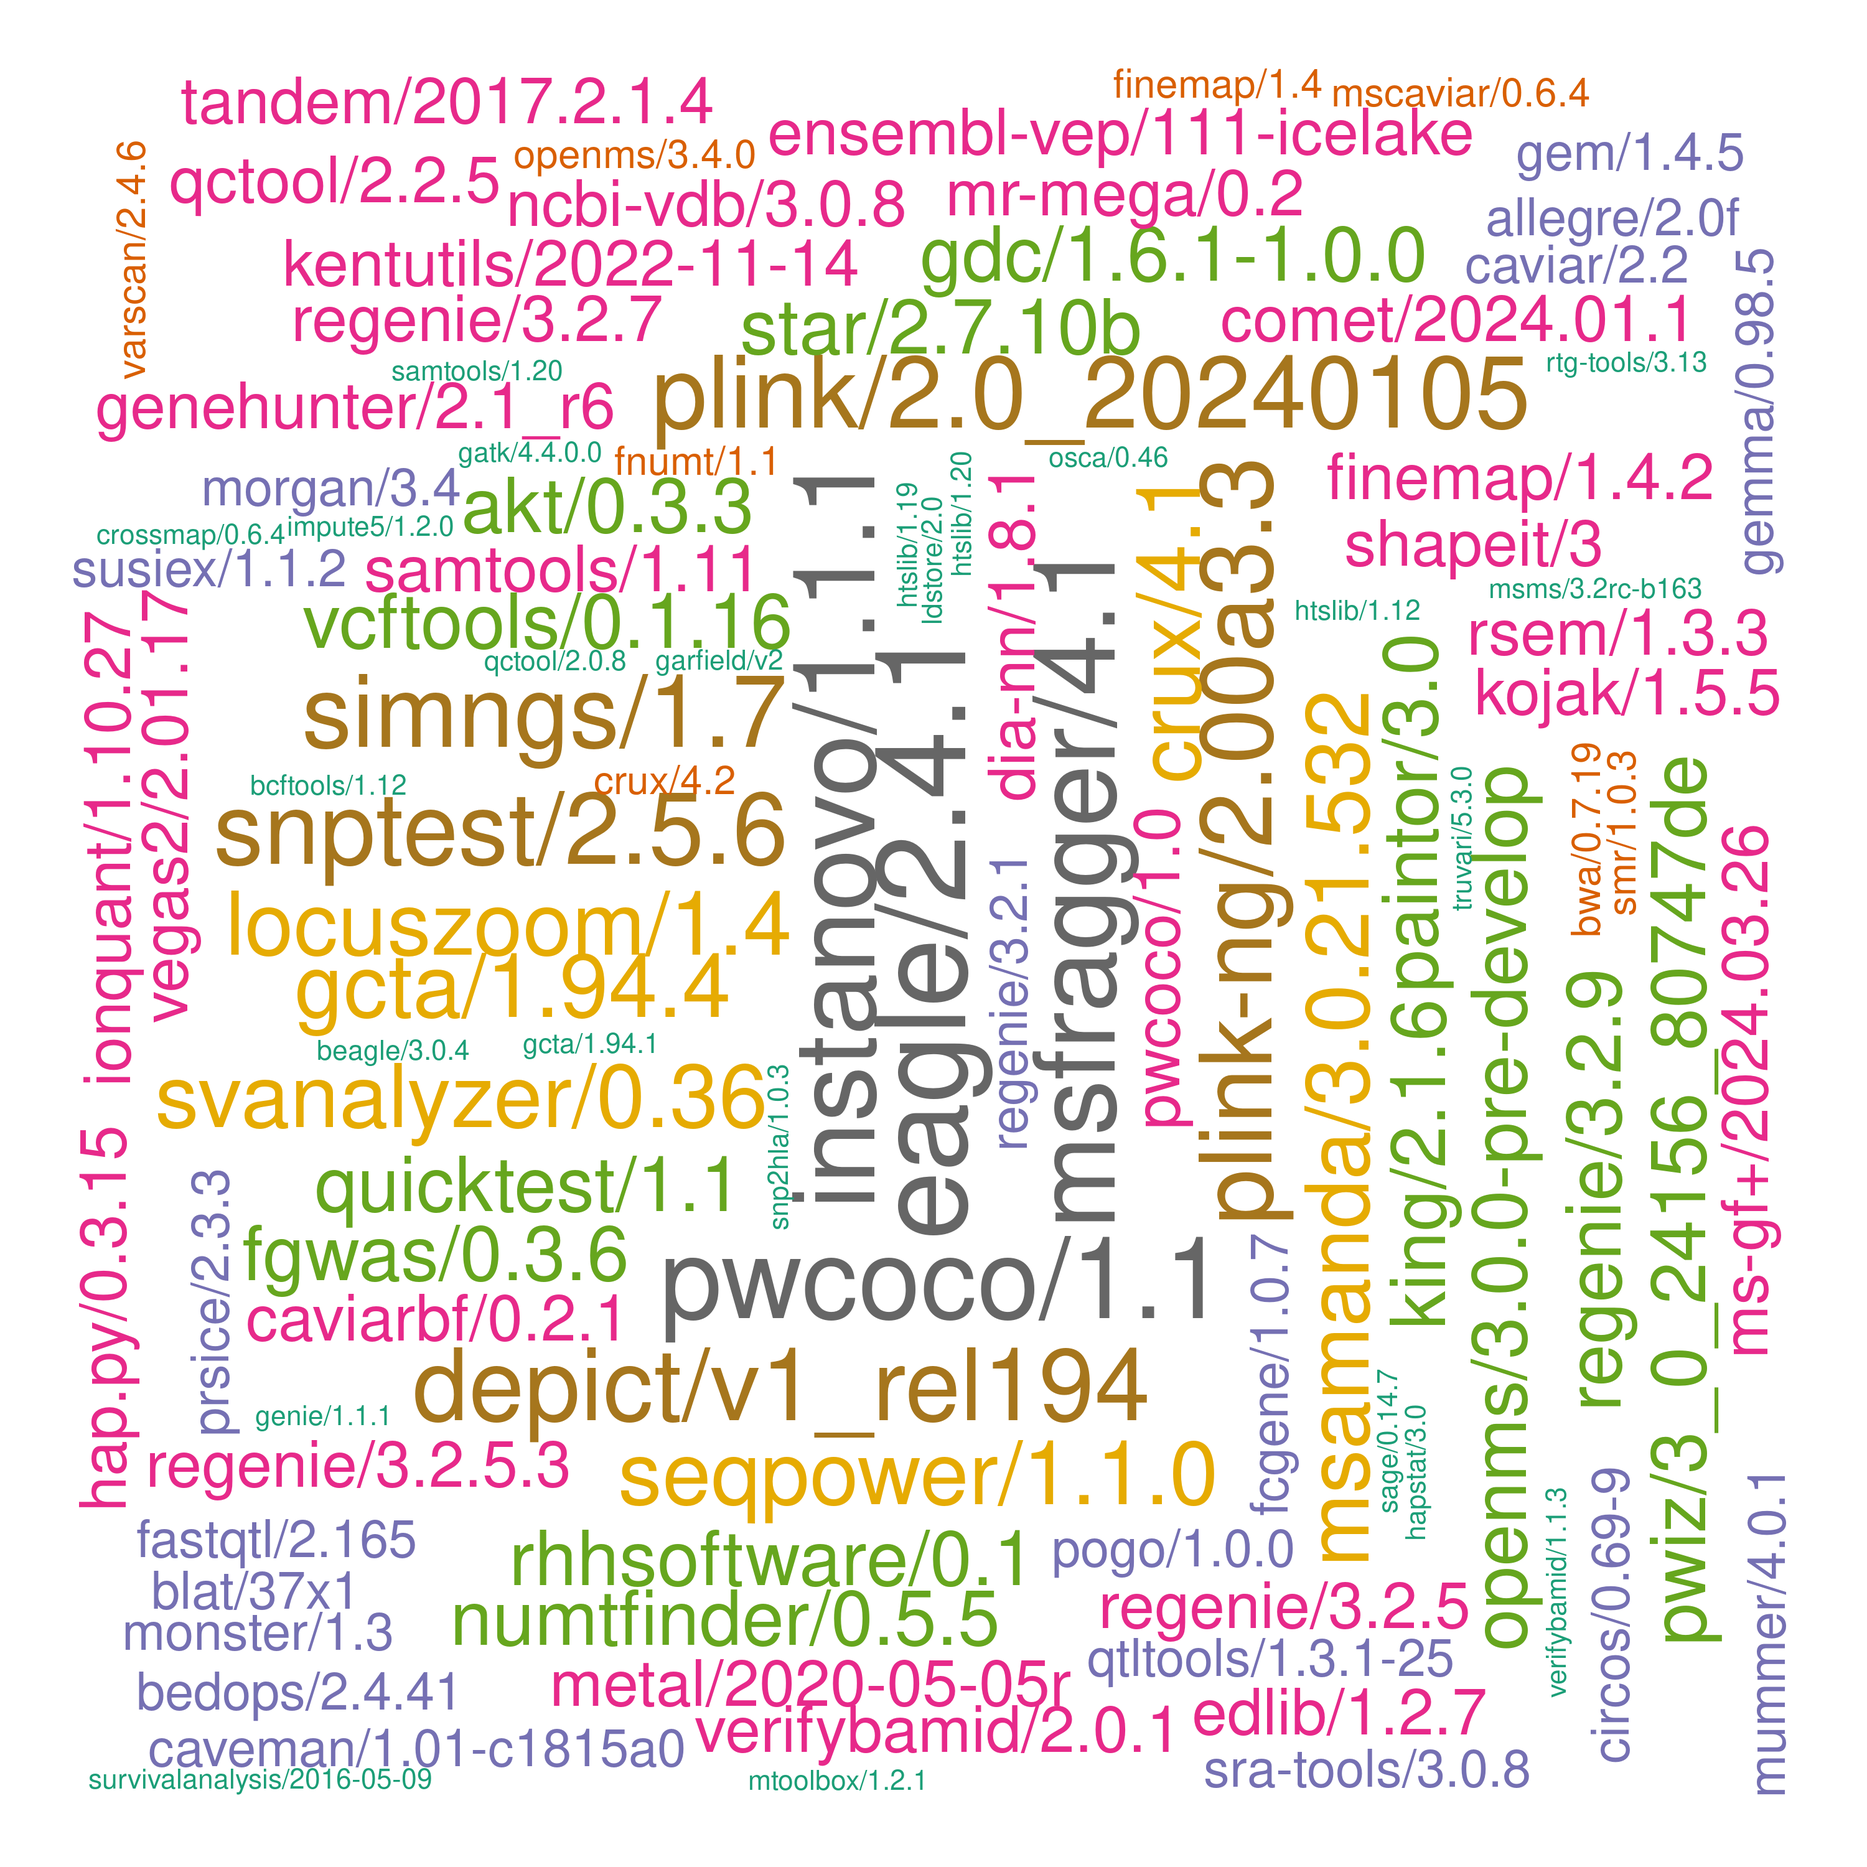
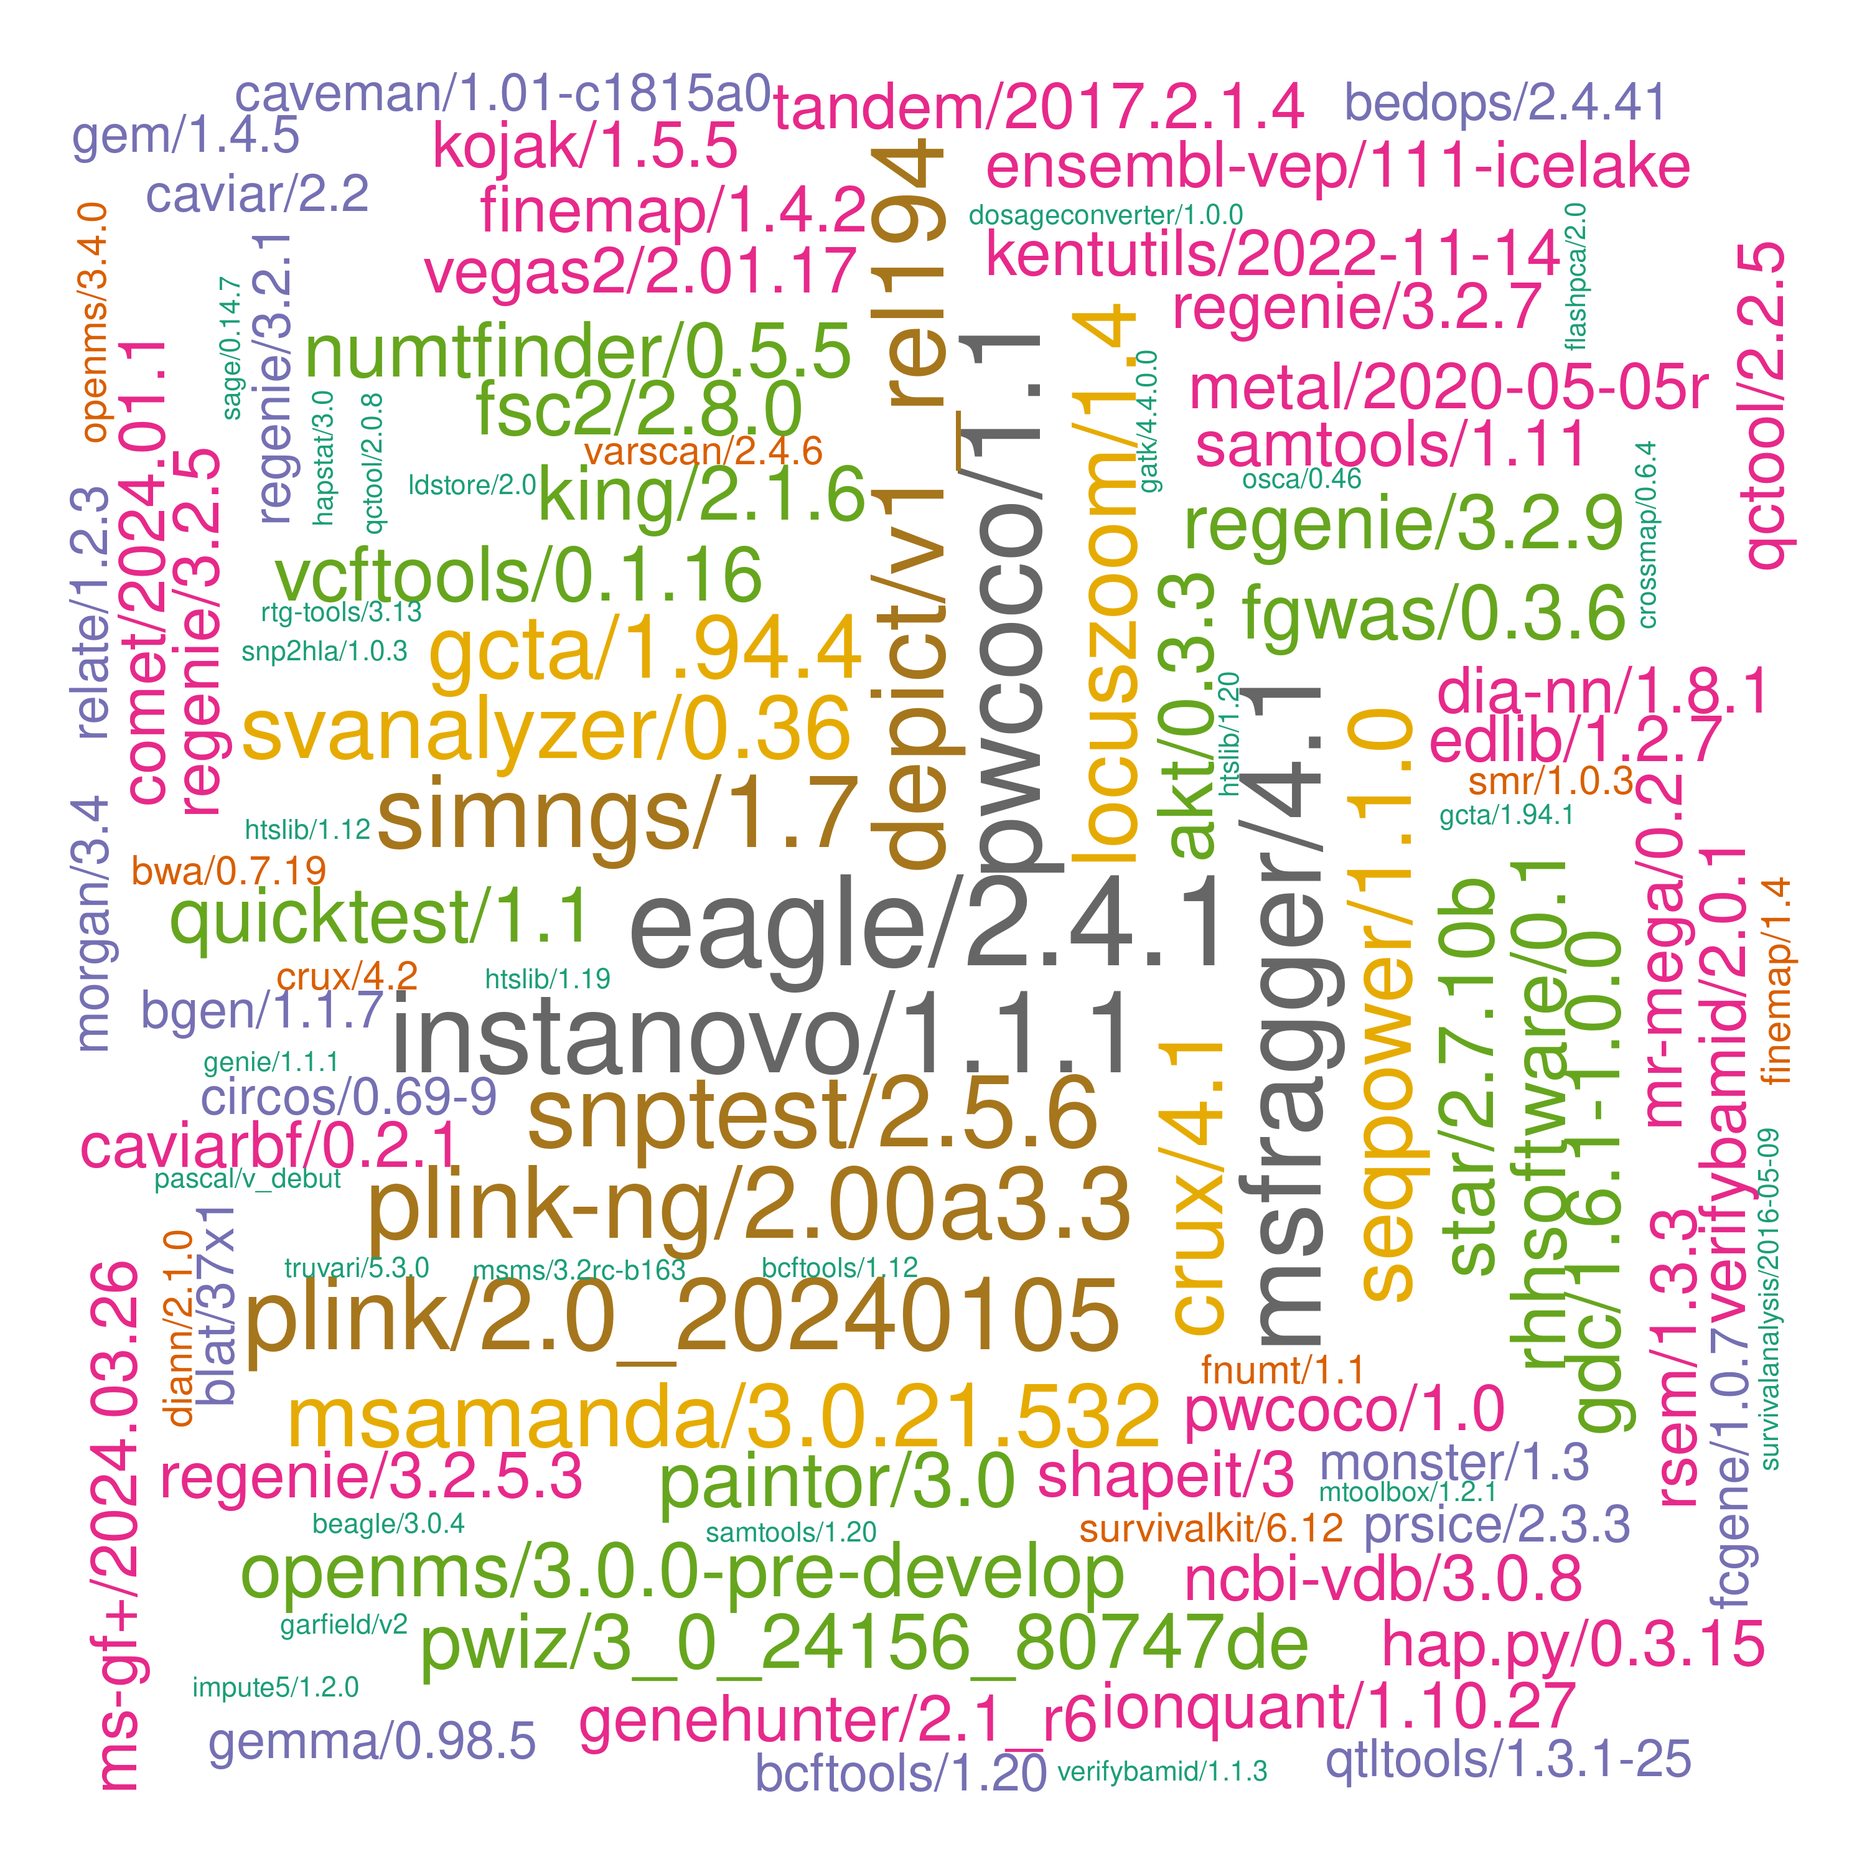
.

Changed region(s): [[0.031, 0.031, 0.961, 0.961]]

diff --git a/systems/ceuadmin.md b/systems/ceuadmin.md
@@ -38,70 +38,71 @@ The current list is as follows,
  [81] "finemap"                "firefox"                "FlashLFQ"               "flashpca"
  [85] "fly"                    "fNUMT"                  "fossil"                 "fpc"
  [89] "FragPipe"               "fraposa_pgsc"           "freesurfer"             "fribidi"
- [93] "GARFIELD"               "gatk"                   "gcc-toolset"            "gcta"
- [97] "gdal"                   "gdc"                    "geany"                  "GEM"
-[101] "GEMMA"                  "GENIE"                  "Genotype-Harmonizer"    "geos"
-[105] "gettext"                "gh"                     "ghc"                    "ghostscript"
-[109] "git"                    "git-extras"             "GitKraken"              "git-lfs"
-[113] "glib"                   "glibc"                  "globusconnectpersonal"  "glpk"
-[117] "gmp"                    "gnutls"                 "go"                     "googletest"
-[121] "graphene"               "GraphicsMagick"         "GreenAlgorithms4HPC"    "gsl"
-[125] "gsutil"                 "gtk+"                   "gtksourceview"          "gtool"
-[129] "haplogrep"              "hap.py"                 "hapstat"                "hivex"
-[133] "hpg"                    "htslib"                 "hunspell"               "icu"
-[137] "ImageJ"                 "ImageMagick"            "impute"                 "impute5"
-[141] "inetutils"              "InstaNovo"              "IonQuant"               "JabRef"
-[145] "JAGS"                   "jasper"                 "jq"                     "json-c"
-[149] "KentUtils"              "KING"                   "kojak"                  "krb5"
-[153] "lapack"                 "ldc2"                   "ldsc"                   "LDstore"
-[157] "LEMMA"                  "leptonica"              "lib64"                  "libarchive"
-[161] "libcares"               "libgcrypt"              "libgeotiff"             "libgit2"
-[165] "libglvnd"               "libiconv"               "libidn2"                "libjpeg-turbo"
-[169] "libntlm"                "libpng"                 "libseccomp"             "libsodium"
-[173] "libssh"                 "libssh2"                "libuv"                  "libxml2"
-[177] "libxslt"                "linux"                  "llama.cpp"              "llm"
-[181] "locuszoom"              "LVM2"                   "MAGENTA"                "magma"
-[185] "Mango"                  "MaxQuant"               "Mega2"                  "metal"
-[189] "MetaMorpheus"           "micromamba"             "Miniconda3"             "miniforge3"
-[193] "MONSTER"                "MORGAN"                 "MR-MEGA"                "msamanda"
-[197] "MsCAVIAR"               "MSFragger"              "MS-GF+"                 "msms"
-[201] "MToolBox"               "MUMmer"                 "nano"                   "nasm"
-[205] "ncbi-vdb"               "ncurses"                "netbeans"               "nettle"
-[209] "nextflow"               "nginx"                  "NLopt"                  "node"
-[213] "nspr"                   "ntlm"                   "NUMTFinder"             "ocaml"
-[217] "ollama"                 "oniguruma"              "opam"                   "openjdk"
-[221] "OpenMS"                 "openssh"                "openssl"                "osca"
-[225] "p7zip-zstd"             "PAINTOR"                "pandoc"                 "pandoc-citeproc"
-[229] "pango"                  "parallel"               "Pascal"                 "patchelf"
-[233] "pcre2"                  "pdf2djvu"               "pdfjam"                 "peer"
-[237] "Perseus"                "pgsc_calc"              "PGS-CSx"                "phenoscanner"
-[241] "PhySO"                  "picard"                 "pigz"                   "pkg-config"
-[245] "plink"                  "plink-bgi"              "plinkseq"               "podman"
-[249] "PoGo"                   "polyphen"               "poppler"                "popt"
-[253] "proj"                   "PRSice"                 "pspp"                   "pulsar"
-[257] "PWCoCo"                 "pwiz"                   "python"                 "qctool"
-[261] "qemu"                   "qpdf"                   "qt"                     "qtcreator"
-[265] "QTLtools"               "quarto"                 "quicktest"              "R"
-[269] "raremetal"              "rclone"                 "readline"               "regenie"
-[273] "regtools"               "relate"                 "RHHsoftware"            "RSEM"
-[277] "rst2pdf"                "rstudio"                "rtg-tools"              "rtmpdump"
-[281] "ruby"                   "rust"                   "sage"                   "samtools"
-[285] "Scala"                  "scGPT"                  "scl-utils"              "selscan"
-[289] "seqkit"                 "SEQPower"               "shapeit"                "shapeit5"
-[293] "simNGS"                 "singularity"            "SMR"                    "snakemake"
-[297] "sniffles"               "SNP2HLA"                "snptest"                "spread-sheet-widget"
-[301] "spyder"                 "sqlite"                 "sra-tools"              "sshpass"
-[305] "ssw"                    "STAR"                   "stata"                  "SurvivalAnalysis"
-[309] "SurvivalKit"            "SuSiEx"                 "SVanalyzer"             "Swift"
-[313] "SYMPHONY"               "Synapse"                "tabix"                  "tandem"
-[317] "tatami"                 "tesseract"              "texinfo"                "ThermoRawFileParser"
-[321] "ThermoRawFileParserGUI" "thunderbird"            "tidy"                   "tiff"
-[325] "trinculo"               "trousers"               "truvari"                "Typora"
-[329] "unbound"                "uv"                     "vala"                   "VarScan"
-[333] "vcftools"               "vdo"                    "VEGAS2"                 "verifyBamID"
-[337] "VirtualBox"             "VSCode"                 "VSCodium"               "vte"
-[341] "Windsurf"               "wine"                   "wrk"                    "xpdf"
-[345] "yaml-cpp"               "Zettlr"                 "Zotero"                 "zstd"
+ [93] "fsc2"                   "GARFIELD"               "gatk"                   "gcc-toolset"
+ [97] "gcta"                   "gdal"                   "gdc"                    "geany"
+[101] "GEM"                    "GEMMA"                  "GENIE"                  "Genotype-Harmonizer"
+[105] "geos"                   "gettext"                "gh"                     "ghc"
+[109] "ghostscript"            "git"                    "git-extras"             "GitKraken"
+[113] "git-lfs"                "glib"                   "glibc"                  "globusconnectpersonal"
+[117] "glpk"                   "gmp"                    "gnutls"                 "go"
+[121] "googletest"             "graphene"               "GraphicsMagick"         "GreenAlgorithms4HPC"
+[125] "gsl"                    "gsutil"                 "gtk+"                   "gtksourceview"
+[129] "gtool"                  "haplogrep"              "hap.py"                 "hapstat"
+[133] "hivex"                  "hpg"                    "htslib"                 "hunspell"
+[137] "icu"                    "ImageJ"                 "ImageMagick"            "impute"
+[141] "impute5"                "inetutils"              "InstaNovo"              "IonQuant"
+[145] "JabRef"                 "JAGS"                   "jasper"                 "jq"
+[149] "json-c"                 "KentUtils"              "KING"                   "kojak"
+[153] "krb5"                   "lapack"                 "ldc2"                   "ldsc"
+[157] "LDstore"                "LEMMA"                  "leptonica"              "lib64"
+[161] "libarchive"             "libcares"               "libgcrypt"              "libgeotiff"
+[165] "libgit2"                "libglvnd"               "libiconv"               "libidn2"
+[169] "libjpeg-turbo"          "libntlm"                "libpng"                 "libseccomp"
+[173] "libsodium"              "libssh"                 "libssh2"                "libuv"
+[177] "libxml2"                "libxslt"                "linux"                  "llama.cpp"
+[181] "llm"                    "locuszoom"              "LVM2"                   "MAGENTA"
+[185] "magma"                  "Mango"                  "MaxQuant"               "Mega2"
+[189] "metal"                  "MetaMorpheus"           "micromamba"             "Miniconda3"
+[193] "miniforge3"             "MONSTER"                "MORGAN"                 "MR-MEGA"
+[197] "msamanda"               "MsCAVIAR"               "MSFragger"              "MS-GF+"
+[201] "msms"                   "MToolBox"               "MUMmer"                 "nano"
+[205] "nasm"                   "ncbi-vdb"               "ncurses"                "netbeans"
+[209] "nettle"                 "nextflow"               "nginx"                  "NLopt"
+[213] "node"                   "nspr"                   "ntlm"                   "NUMTFinder"
+[217] "ocaml"                  "ollama"                 "oniguruma"              "opam"
+[221] "openjdk"                "OpenMS"                 "openssh"                "openssl"
+[225] "osca"                   "p7zip-zstd"             "PAINTOR"                "pandoc"
+[229] "pandoc-citeproc"        "pango"                  "parallel"               "Pascal"
+[233] "patchelf"               "pcre2"                  "pdf2djvu"               "pdfjam"
+[237] "peer"                   "Perseus"                "pgsc_calc"              "PGS-CSx"
+[241] "phenoscanner"           "PhySO"                  "picard"                 "pigz"
+[245] "pkg-config"             "plink"                  "plink-bgi"              "plinkseq"
+[249] "podman"                 "PoGo"                   "polyphen"               "poppler"
+[253] "popt"                   "proj"                   "PRSice"                 "pspp"
+[257] "pulsar"                 "PWCoCo"                 "pwiz"                   "python"
+[261] "qctool"                 "qemu"                   "qpdf"                   "qt"
+[265] "qtcreator"              "QTLtools"               "quarto"                 "quicktest"
+[269] "R"                      "raremetal"              "rclone"                 "readline"
+[273] "regenie"                "regtools"               "relate"                 "RHHsoftware"
+[277] "RSEM"                   "rst2pdf"                "rstudio"                "rtg-tools"
+[281] "rtmpdump"               "ruby"                   "rust"                   "sage"
+[285] "samtools"               "Scala"                  "scGPT"                  "scl-utils"
+[289] "selscan"                "seqkit"                 "SEQPower"               "shapeit"
+[293] "shapeit5"               "simNGS"                 "singularity"            "SMR"
+[297] "snakemake"              "sniffles"               "SNP2HLA"                "snptest"
+[301] "spread-sheet-widget"    "spyder"                 "sqlite"                 "sra-tools"
+[305] "sshpass"                "ssw"                    "STAR"                   "stata"
+[309] "SurvivalAnalysis"       "SurvivalKit"            "SuSiEx"                 "SVanalyzer"
+[313] "Swift"                  "SYMPHONY"               "Synapse"                "tabix"
+[317] "tandem"                 "tatami"                 "tesseract"              "texinfo"
+[321] "ThermoRawFileParser"    "ThermoRawFileParserGUI" "thunderbird"            "tidy"
+[325] "tiff"                   "trinculo"               "trousers"               "truvari"
+[329] "Typora"                 "unbound"                "uv"                     "vala"
+[333] "VarScan"                "vcftools"               "vdo"                    "VEGAS2"
+[337] "verifyBamID"            "VirtualBox"             "VSCode"                 "VSCodium"
+[341] "vte"                    "Windsurf"               "wine"                   "wrk"
+[345] "xpdf"                   "yaml-cpp"               "Zettlr"                 "Zotero"
+[349] "zstd"
 ```
 
 These are wrapped up as :star::star::star: **[modules](https://modules.readthedocs.io/en/latest/index.html)** :star::star::star:.
@@ -450,6 +451,7 @@ Further information is avaiiable from **/usr/local/Cluster-Apps/ceuadmin/doc/ceu
     | 2025-09-03 | hapstat/3.0                  | Genetics    |
     | 2025-09-04 | relate/1.2.3                 | Genetics    |
     | ""         | clues2/github                | Genetics    |
+    | 2025-09-05 | fsc2/2.8.0                   | Genetics    |
 
     \* CEU or approved users only -- when not indicated can be found out from the folder associated with a module.
 

diff --git a/systems/setup.md b/systems/setup.md
@@ -479,6 +479,7 @@ All entries are ordered chronologically.
 | 2025-09-03 | hapstat/3.0                      | Genetics[^hapstat]    |
 | 2025-09-04 | relate/1.2.3                     | Genetics[^relate]     |
 | ""         | clues2/github                    | Genetics[^clues2]     |
+| 2025-09-05 | fsc2/2.8.0                       | Genetics[^fsc2]       |
 
 \* CEU or approved users only -- when not indicated can be found out from the folder associated with a module.
 
@@ -2001,3 +2002,17 @@ They are generated from script [setup.sh](setup.sh),
 [^clues2]: **clues2**
 
     Somewhat confusing, the software has been called CLUES2 and detailed in <https://cambridge-ceu.github.io/csd3/applications/clues2.html>.
+
+[^fsc2]: **fastsimcoal2**
+
+    Web: <https://cmpg.unibe.ch/software/fastsimcoal2/>
+
+    ```bash
+    wget https://cmpg.unibe.ch/software/fastsimcoal2/downloads/fsc28_linux64.zip
+    unzip fsc28_linux64.zip
+    cd fsc28_linux64/
+    chmod +x fsc28
+    ./fsc28
+    ```
+
+    which gives command line options.
